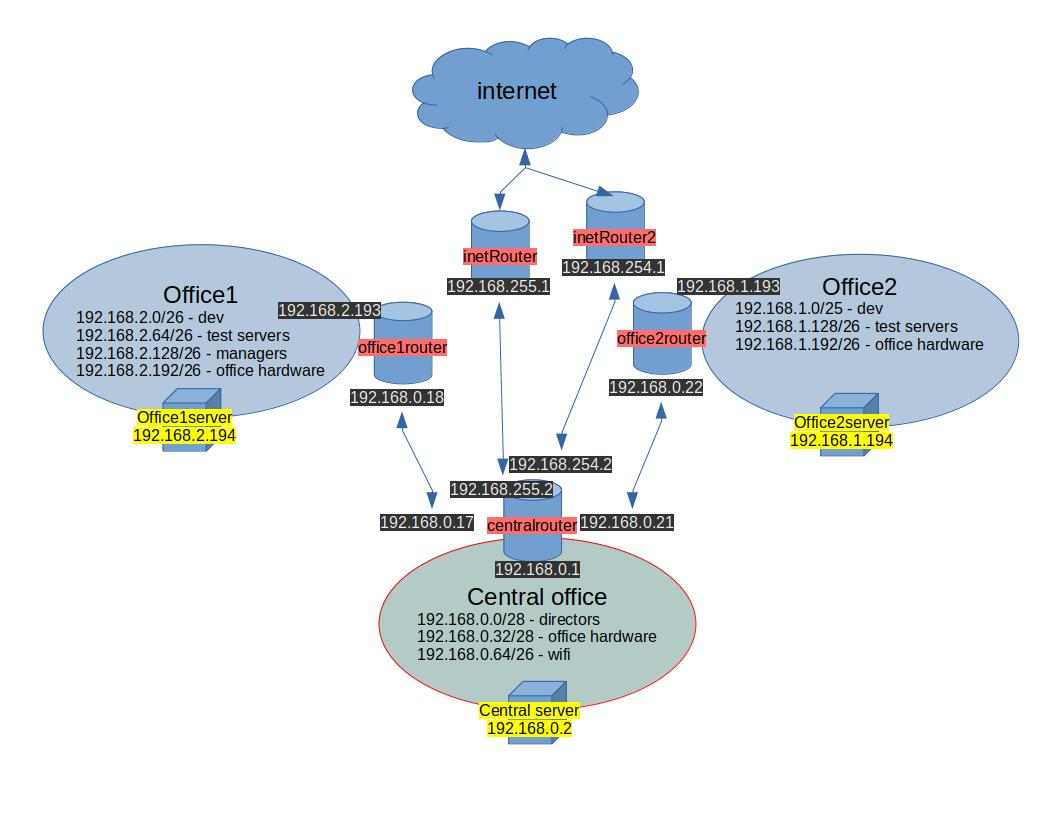
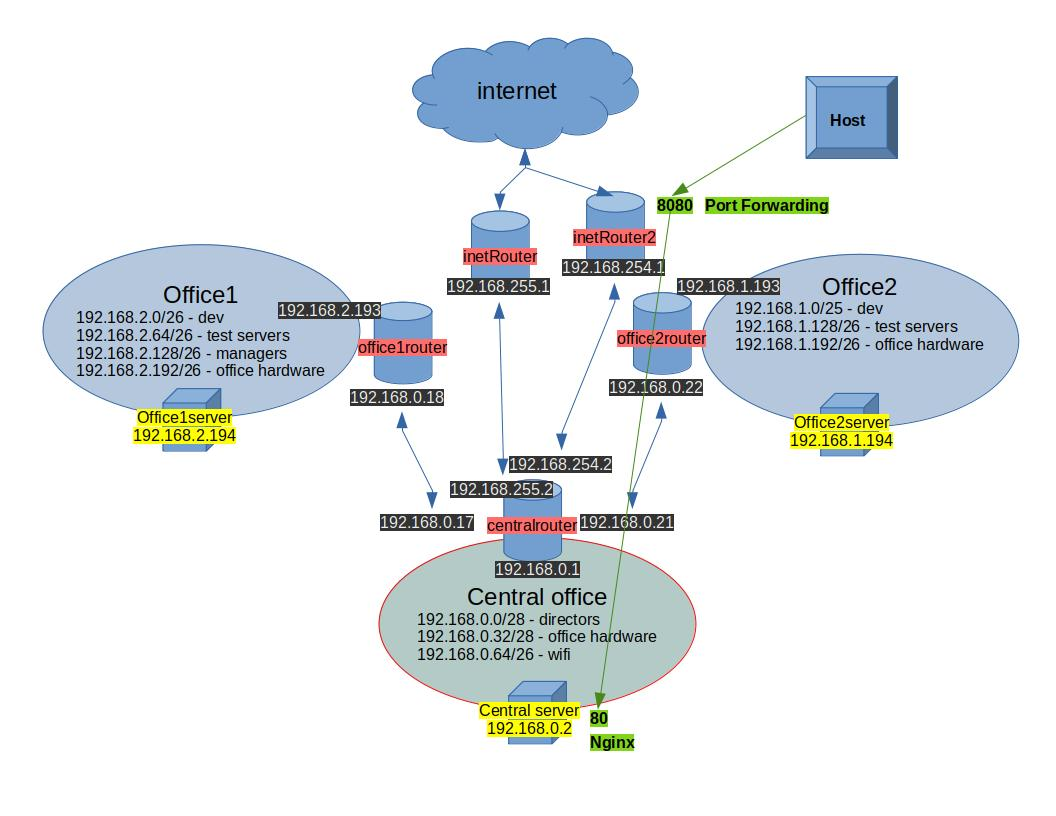
Edit HW20

Changed region(s): [[0.625, 0.0919, 0.875, 0.2757], [0.5312, 0.8272, 0.625, 0.9191]]

diff --git a/HW20/README.md b/HW20/README.md
@@ -3,11 +3,11 @@
 
 ## Net Filters
 
-### Important notice
-
 ### How to use this repo
 
 Clone repo, run `vagrant up`. 
+
+![Net](./hw-ip-traf.jpg?raw=true "Principal scheme")
 
 #### Port knocking
 
@@ -17,7 +17,7 @@ All rules in inetrouter.rules.
 [vagrant@centralRouter ~]$ telnet 192.168.255.1 22
 Trying 192.168.255.1...
 ^C
-[vagrant@centralRouter ~]$ sudo ./knock.sh 192.168.255.1 8881 7777 9991 
+[vagrant@centralRouter ~]$ sudo ./knock.sh 192.168.255.1 8881 7777 9991
 
 Starting Nmap 6.40 ( http://nmap.org ) at 2019-11-06 15:51 UTC
 Warning: 192.168.255.1 giving up on port because retransmission cap hit (0).
@@ -50,9 +50,9 @@ MAC Address: 08:00:27:78:75:9D (Cadmus Computer Systems)
 Nmap done: 1 IP address (1 host up) scanned in 0.16 seconds
 
 [vagrant@centralRouter ~]$  ssh vagrant@192.168.255.1
-vagrant@192.168.255.1's password: 
+vagrant@192.168.255.1's password:
 Last login: Wed Nov  6 15:49:45 2019 from 192.168.255.2
-[vagrant@inetRouter ~]$ 
+[vagrant@inetRouter ~]$
 
 ```
 
@@ -70,12 +70,65 @@ Last login: Wed Nov  6 15:49:45 2019 from 192.168.255.2
 <html>
 <head>
   <title>Welcome to CentOS</title>
-  <style rel="stylesheet" type="text/css"> 
+  <style rel="stylesheet" type="text/css">
 ...
 ```
 
+#### Firewalld port forwarding
 
-### Troubleshooting
+```
+[root@inetRouter2 vagrant]# firewall-cmd --list-all
+public (active)
+  target: default
+  icmp-block-inversion: no
+  interfaces: eth2 eth0
+  sources:
+  services: ssh dhcpv6-client
+  ports:
+  protocols:
+  masquerade: no
+  forward-ports: port=8080:proto=tcp:toport=80:toaddr=192.168.0.2
+  source-ports:
+  icmp-blocks:
+  rich rules:
+
+[root@inetRouter2 vagrant]# firewall-cmd --list-all --zone=internal
+internal (active)
+  target: default
+  icmp-block-inversion: no
+  interfaces: eth1
+  sources:
+  services: ssh mdns samba-client dhcpv6-client
+  ports:
+  protocols:
+  masquerade: yes
+  forward-ports:
+  source-ports:
+  icmp-blocks:
+  rich rules:
+```
+
+![Port forwarding](./hw-ip-traf.jpg?raw=true "Nginx web page")
+
+#### Default router to internet
+
+```
+[vagrant@centralServer ~]$ tracepath -n yandex.ru
+ 1?: [LOCALHOST]                                         pmtu 1500
+ 1:  192.168.0.1                                           1.131ms 
+ 1:  192.168.0.1                                           0.961ms 
+ 2:  192.168.255.1                                         1.934ms 
+ 3:  no reply
+ 4:  no reply
+ 5:  no reply
+ 6:  10.109.11.6                                          11.079ms asymm 64 
+ 7:  212.188.1.5                                           9.476ms asymm 63 
+ 8:  195.34.50.73                                         10.986ms asymm 62 
+ 9:  212.188.55.2                                         10.072ms asymm 61 
+10:  212.188.2.230                                        11.505ms asymm 60 
+11:  no reply
+
+```
 
 ### Useful links
 
